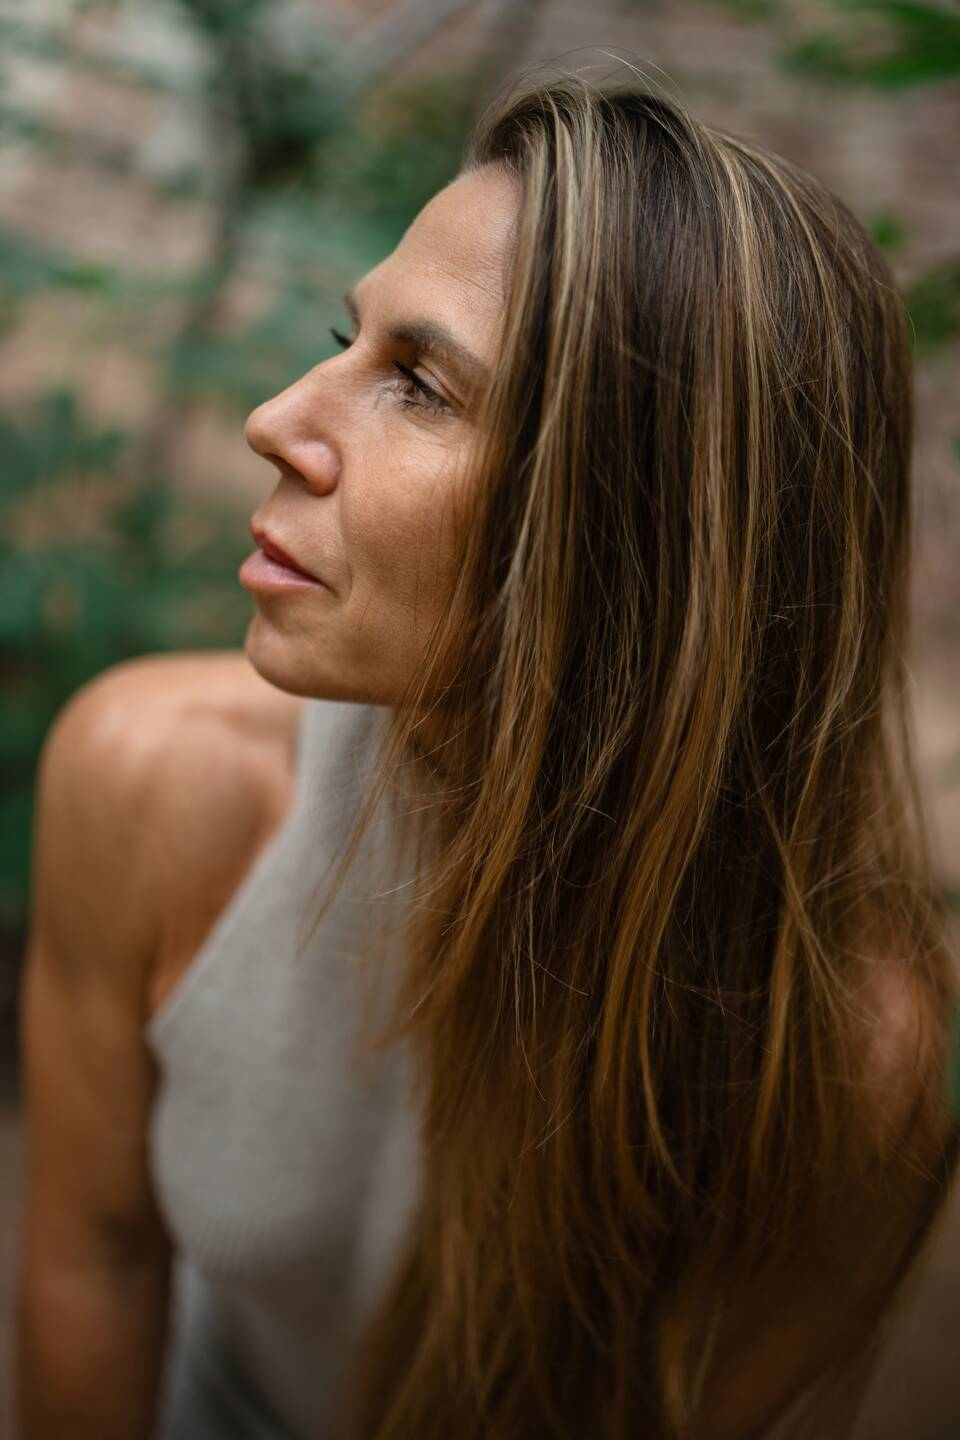
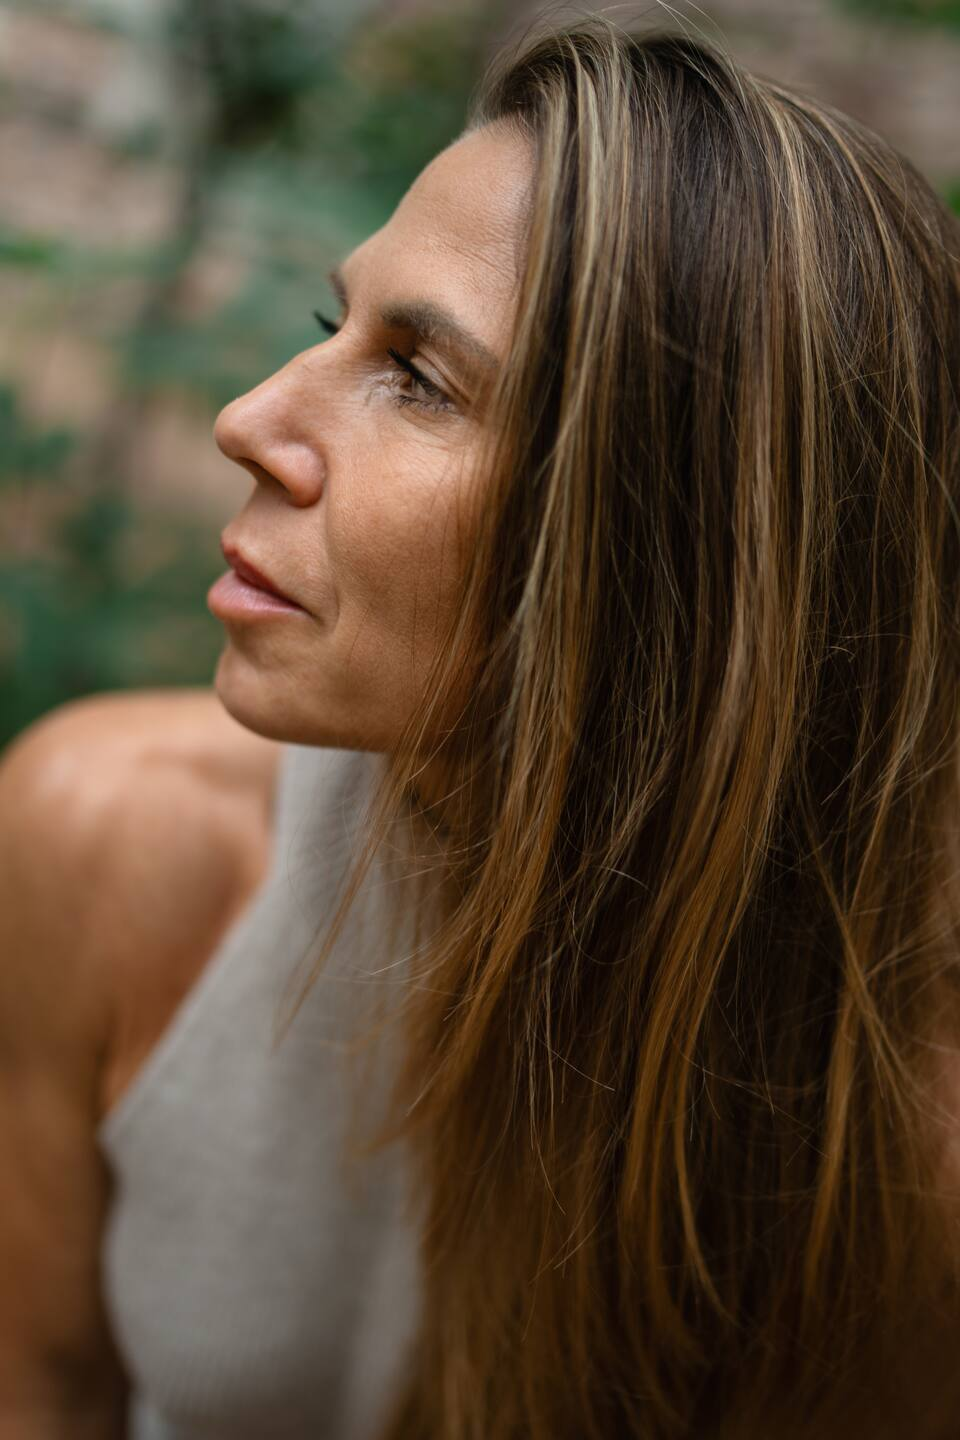
IG rozcestník: Kristýna v horní části, nové fotky na pozadí, výchozí zákaz cookies
Claude-Session: https://claude.ai/code/session_01RK8cCKT2EvrRAQiUVMBdHx

diff --git a/ig/index.html b/ig/index.html
@@ -2,6 +2,12 @@
 <html lang="cs">
 <head>
 <meta charset="utf-8">
+<script>
+/* Stránka bez cookie lišty: Google i Clarity dostanou výchozí zákaz ukládání. */
+window.dataLayer=window.dataLayer||[];function gtag(){dataLayer.push(arguments);}
+gtag('consent','default',{ad_storage:'denied',analytics_storage:'denied',ad_user_data:'denied',ad_personalization:'denied',functionality_storage:'denied',personalization_storage:'denied',security_storage:'granted'});
+</script>
+
 <meta name="viewport" content="width=device-width, initial-scale=1, viewport-fit=cover">
 <title>Kristýna Paulus · odkazy</title>
 <meta name="description" content="Kristýna Paulus: jóga, zdraví a džjotiš. Kurzy, konzultace a praxe zdarma.">
@@ -225,6 +231,13 @@ h1{font-weight:600;text-shadow:0 2px 18px rgba(0,0,0,.7)}
 .foot-links{color:var(--cream)}
 .sig{color:rgba(255,246,232,.6)}
 
+
+/* ---------- horní pás s fotkou ---------- */
+.bg{inset:0;background-size:106% auto!important;background-repeat:no-repeat;background-position:center top!important;transform-origin:50% 20%}
+.veil{background:
+  linear-gradient(180deg,rgba(8,30,39,0) 0%,rgba(8,30,39,0) 30%,rgba(8,30,39,.5) 44%,rgba(8,30,39,.9) 56%,rgba(8,30,39,.96) 100%)!important}
+header{padding-top:min(calc(100vw * 1.5 * .58), 44vh)}
+
 @media (min-width:700px){ header{padding-top:4vh} }
 @media (prefers-reduced-motion:reduce){
   *,*::before,*::after{animation:none!important;transition:none!important}
@@ -234,10 +247,10 @@ h1{font-weight:600;text-shadow:0 2px 18px rgba(0,0,0,.7)}
 <body data-mode="home">
 
 <div class="stage" aria-hidden="true">
-  <div class="bg on" data-bg="home"  style="background-image:url(assets/bg-home.jpg)"></div>
-  <div class="bg"    data-bg="praxe" style="background-image:url(assets/bg-praxe.jpg)"></div>
-  <div class="bg"    data-bg="zdravi" style="background-image:url(assets/bg-zdravi.jpg);background-position:center 45%"></div>
-  <div class="bg"    data-bg="dzjotis" style="background-image:url(assets/bg-dzjotis.jpg);background-position:30% 30%"></div>
+  <div class="bg on" data-bg="home"  style="background-image:url(assets/bg-home.jpg?v=2)"></div>
+  <div class="bg"    data-bg="praxe" style="background-image:url(assets/bg-praxe.jpg?v=2)"></div>
+  <div class="bg"    data-bg="zdravi" style="background-image:url(assets/bg-zdravi.jpg?v=2);background-position:center 45%"></div>
+  <div class="bg"    data-bg="dzjotis" style="background-image:url(assets/bg-dzjotis.jpg?v=2);background-position:30% 30%"></div>
   <div class="wheel">
     <svg viewBox="-100 -100 200 200" fill="none" stroke="#D9B676" stroke-width=".35">
       <circle r="96"/><circle r="78"/><circle r="40"/><circle r="38.5" stroke-dasharray=".6 2.2"/>
